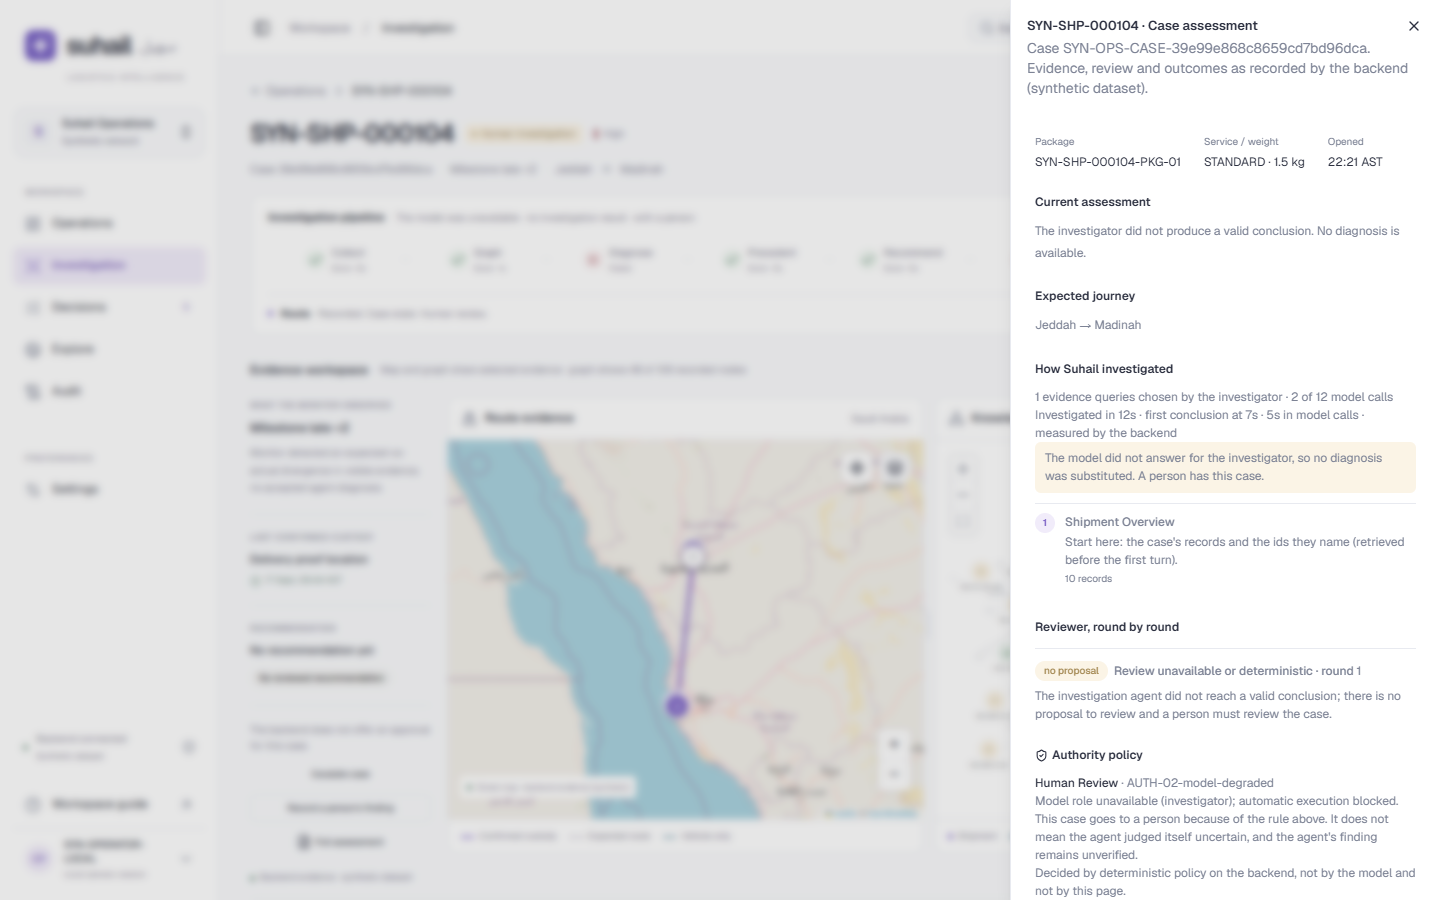
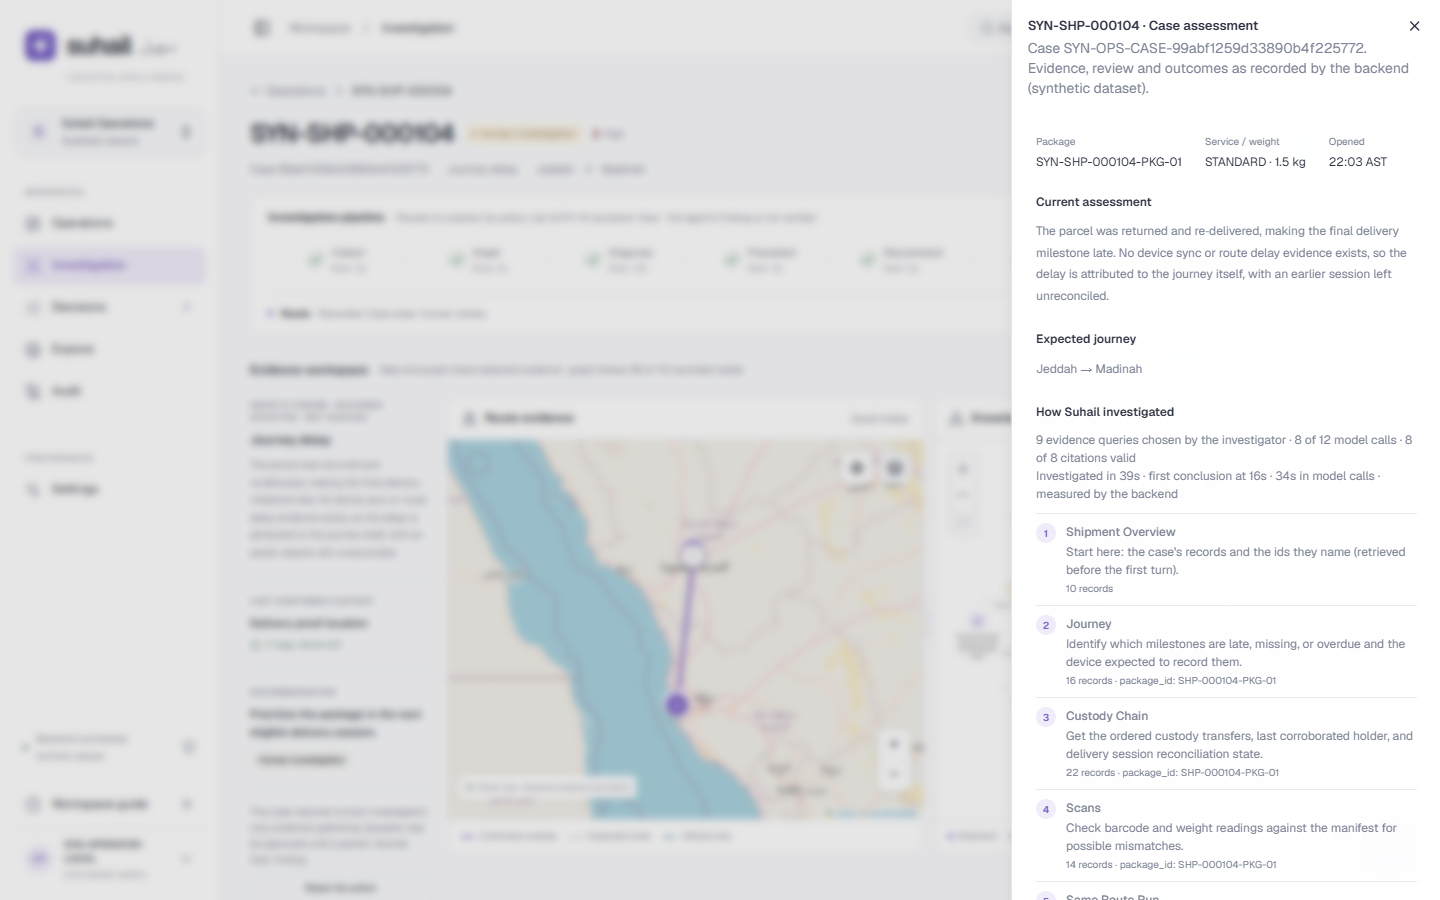
fix(frontend-next): long text wraps in the assessment sheet; an earlier cycle's outcome is shown as history; live rerun report

diff --git a/frontend-next/tests/e2e-live/demo-operator.spec.ts b/frontend-next/tests/e2e-live/demo-operator.spec.ts
@@ -28,7 +28,8 @@ test("An approvable recommendation is approved from the interface", async ({ pag
   test.skip(!APPROVE || !handedOver, "set SUHAIL_DEMO_APPROVE and SUHAIL_LIVE_DEMO_HANDED_OVER=1");
   const before = await read(request, APPROVE!);
   expect(before.recommendation?.approvable).toBe(true);
-  expect(before.executions).toHaveLength(0);
+  // An earlier cycle's execution may be on record; the approval must add a new one.
+  const earlier = before.executions.length;
   await page.goto(`/app/cases/${APPROVE}`);
   await expect(page.getByRole("heading", { level: 1 })).toHaveText(before.shipment_id, {
     timeout: 60000,
@@ -40,13 +41,19 @@ test("An approvable recommendation is approved from the interface", async ({ pag
   await dialog.getByRole("button", { name: "Authorize action" }).click();
   await expect(dialog).toHaveCount(0, { timeout: 60000 });
   await expect
-    .poll(async () => (await read(request, APPROVE!)).executions.length, { timeout: 60000 })
+    .poll(
+      async () =>
+        (await read(request, APPROVE!)).executions.filter(
+          (item) => item.authority === "OPERATOR_APPROVAL",
+        ).length,
+      { timeout: 60000 },
+    )
     .toBeGreaterThan(0);
   const after = await read(request, APPROVE!);
+  const mine = after.executions.find((item) => item.authority === "OPERATOR_APPROVAL")!;
   console.log(
-    `approved: ${before.workflow_state} v${before.state_version} -> ${after.workflow_state} v${after.state_version}; execution ${after.executions[0].status} by ${after.executions[0].authority}; deadline ${after.executions[0].deadline_at ?? "none"}`,
+    `approved: ${before.workflow_state} v${before.state_version} -> ${after.workflow_state} v${after.state_version}; ${earlier} earlier execution(s); execution ${mine.status} by ${mine.authority}; deadline ${mine.deadline_at ?? "none"}`,
   );
-  expect(after.executions[0].authority).toBe("OPERATOR_APPROVAL");
   // The page follows the backend: no second approval is offered, and a receipt is not an outcome.
   await expect(page.getByRole("button", { name: "Review & authorize" })).toHaveCount(0, {
     timeout: 30000,
@@ -56,11 +63,10 @@ test("An approvable recommendation is approved from the interface", async ({ pag
   await page.getByRole("button", { name: "Case details" }).click();
   const sheet = page.getByRole("dialog");
   await expect(sheet).toContainText(
-    after.executions[0].status === "ACKNOWLEDGED"
+    mine.status === "ACKNOWLEDGED"
       ? "A receipt is not an outcome"
       : "nothing was carried out",
   );
-  if (!after.outcome) await expect(sheet.getByTestId("verification-result")).toHaveCount(0);
   await page.screenshot({ path: shot("3-approved-assessment") });
 });
 

diff --git a/frontend-next/tests/e2e-live/demo-stories.spec.ts b/frontend-next/tests/e2e-live/demo-stories.spec.ts
@@ -117,12 +117,22 @@ for (const id of CASES)
     }
     if (execution?.status === "NOT_ACKNOWLEDGED")
       await expect(sheet).toContainText("nothing was carried out");
-    if (outcome) {
+    if (outcome && outcome.current_cycle === false) {
+      // An earlier cycle's outcome is history, never the current action's outcome.
+      await expect(sheet.getByTestId("verification-result")).toHaveCount(0);
+      await expect(sheet.getByTestId("earlier-outcome")).toContainText(outcome.reason);
+    } else if (outcome) {
       const verification = sheet.getByTestId("verification-result");
       await verification.scrollIntoViewIfNeeded();
       await expect(verification).toContainText(outcome.reason);
+      if (outcome.outcome_type === "no_confirming_evidence")
+        await expect(verification).toContainText("Delivered · no answer by the deadline");
     } else await expect(sheet.getByTestId("verification-result")).toHaveCount(0);
     await page.screenshot({ path: `screenshots/story-${name}-assessment.png` });
+    // The assessment sheet never scrolls sideways: long identifiers wrap.
+    expect(
+      await sheet.evaluate((node) => node.scrollWidth <= node.clientWidth + 1),
+    ).toBe(true);
     await page.keyboard.press("Escape");
 
     // The Resolved queue holds this case only if the backend resolved it from a verified outcome.

diff --git a/frontend-next/src/pages/investigation.tsx b/frontend-next/src/pages/investigation.tsx
@@ -1090,6 +1090,14 @@ export function InvestigationPage() {
               >
                 {c.execution?.detail ??
                   t("No action has been executed.", "لم يُنفذ أي إجراء.")}
+                {c.backend?.earlierOutcome && (
+                  <p className="finding-meta mt-3" data-testid="earlier-outcome">
+                    {t(
+                      `An earlier action on this case was checked by the verifier and ${c.backend.earlierOutcome.success ? "confirmed" : "not confirmed"}: ${c.backend.earlierOutcome.reason} It belongs to an earlier cycle and is not the outcome of the current action.`,
+                      `إجراء سابق في هذه الحالة فحصه المتحقق و${c.backend.earlierOutcome.success ? "تأكد" : "لم يتأكد"}: ${c.backend.earlierOutcome.reason} يخص دورة سابقة وليس نتيجة الإجراء الحالي.`,
+                    )}
+                  </p>
+                )}
                 {c.backend?.verification ? (
                   <div className="finding" data-testid="verification-result">
                     <Badge

diff --git a/frontend-next/src/api/adapters.ts b/frontend-next/src/api/adapters.ts
@@ -1031,6 +1031,10 @@ export function applyDetail(
       actionType: detail.recommendation?.action_type ?? null,
       outcomeStatus: detail.outcome?.verification_status ?? null,
       verification,
+      earlierOutcome:
+        detail.outcome && detail.outcome.current_cycle === false
+          ? { reason: detail.outcome.reason ?? "", success: detail.outcome.success === true }
+          : null,
       verificationDeadline: execution?.deadline_at ?? null,
       expectedResponseAt: execution?.expected_response_at ?? null,
       asOf: detail.as_of,

diff --git a/frontend-next/src/domain/types.ts b/frontend-next/src/domain/types.ts
@@ -288,6 +288,8 @@ export interface BackendCaseState {
     verifiedAt: string | null;
   };
   /** Until when the verifier waits for evidence of the executed action. */
+  /** An outcome recorded for an earlier action of this case, superseded by a later cycle. */
+  earlierOutcome?: { reason: string; success: boolean } | null;
   verificationDeadline?: string | null;
   /** When an answer to the executed action is scheduled, if the backend says so. */
   expectedResponseAt?: string | null;

diff --git a/frontend-next/src/styles/integration.css b/frontend-next/src/styles/integration.css
@@ -183,3 +183,11 @@
 .audit-detail-sheet [data-slot="scroll-area"] {
   min-height: 0;
 }
+
+/* Long identifiers and query arguments must wrap inside the assessment sheet, never widen it. */
+.detail-section,
+.detail-section > div,
+.investigation-steps li > div {
+  min-width: 0;
+  overflow-wrap: anywhere;
+}

diff --git a/docs/agent-runs/2026-10-11_ui-live-rerun.md b/docs/agent-runs/2026-10-11_ui-live-rerun.md
@@ -1,0 +1,62 @@
+# Redesigned UI: the five-case live rerun (11 October 2026)
+
+URL: `http://127.0.0.1:8020/app/` (session `SYN-OPS-SESSION-51ec40f8d71129ff04691297`, real
+`gpt-oss:120b` calls, simulated clock at speed 600). Synthetic data; every execution is the
+backend's simulator, not an SPL system.
+
+## How it was checked
+
+A browser watched the session read-only for 16.5 minutes from before the first arrival (Operations
+page plus the case under investigation, sampled every 2 seconds; no page error). One approval was
+then made from the interface. Finally each case was opened at rest and compared with
+`GET /cases/{id}`; all five match.
+
+## Stage by stage
+
+| Stage | Verified in the interface against the backend | Not verified |
+| --- | --- | --- |
+| Arrival | All five cases appeared on Operations within about 4 s of opening | |
+| Investigation | Every run showed its evidence queries, elapsed time, reviewer verdict; "Model reply invalid, retrying" appeared live on `000165` and `000104` | Turn budget exhausted and final-turn conclusion did not occur |
+| Recommendation | Shown with its authority class and rule on all five | |
+| Routing to a person | `000104` "Routed to a person by policy rule AUTH-14-symptom-floor", `000416` by AUTH-04 before its re-run, each with "the agent's finding is not verified" | |
+| Approval | `000359` device sync approved with "Review & authorize"; backend recorded the operator approval | The request was **not acknowledged** (nothing left to sync), so no execution or outcome followed the approval |
+| Simulated execution | Automatic actions acknowledged on `000359` (custody reconciliation) and `000232` (hub check), shown with the scheduled answer time | An execution following an operator approval |
+| Verified outcome | `000359`: verifier answered, parcel not found. `000232`: "Delivered · no answer by the deadline", seen on real data for the first time | **A successful, resolved outcome: no case resolved in this session** |
+
+## End states
+
+| Shipment | Case | Runs | End state on screen and in the backend |
+| --- | --- | --- | --- |
+| `SYN-SHP-000165` | `…d2eecc49a809d1333da41694` | 1 | Escalated, reviewer did not accept; nothing executed |
+| `SYN-SHP-000104` | `…99abf1259d33890b4f225772` | 3 | With a person under the symptom-floor rule; not approvable |
+| `SYN-SHP-000359` | `…5e16b775e5f6eabe0248de43` | 2 | With a person; approved sync not acknowledged; earlier automatic action answered, parcel not found |
+| `SYN-SHP-000416` | `…45fe7f37b85e501efaf00629` | 3 | Escalated after a reviewer revision |
+| `SYN-SHP-000232` | `…b9274e4d19af6e80d44c74fa` | 1 | With a person; hub check delivered, no answer by the deadline |
+
+### Why runs repeated (the backend's own reasons)
+
+| Shipment | Reason recorded |
+| --- | --- |
+| `000165` | None: "17 new records arrived; none changes the symptoms or the evidence the conclusion rests on" (run kept) |
+| `000104` | A new symptom (milestone overdue); then a cited manifest record got a new version |
+| `000359` | Late uploads cleared the custody-gap finding after the outcome failed |
+| `000416` | One kept run; then a new symptom (milestone overdue); then a new finding (delivery dispute) |
+
+Every repeat had a material reason. The first run of `000416` was approvable for about ten seconds
+before a re-run replaced it, too short for a person to act on.
+
+## What rendered wrongly, and the fixes
+
+1. **The assessment sheet was cut off on the right** on `000359`: a long query argument widened it.
+   Long text now wraps.
+2. **An earlier cycle's outcome was invisible on the case.** `000359`'s automatic action had been
+   answered (parcel not found) before the approval; the sheet showed nothing about it. It now shows
+   it as an earlier action's result, apart from the current action.
+3. **A blank description** on a case without a diagnosis opened by direct link, until the queue
+   loaded. It now says no accepted diagnosis is recorded.
+
+## Checks at this commit
+
+TypeScript and lint clean; 53 unit tests; 9 connected browser tests (scripted stand-in); the live
+watch, 1 approval and 5 read-only case checks on the demo backend. Lab browser tests last ran at
+`b67f44d` (20 passed).
